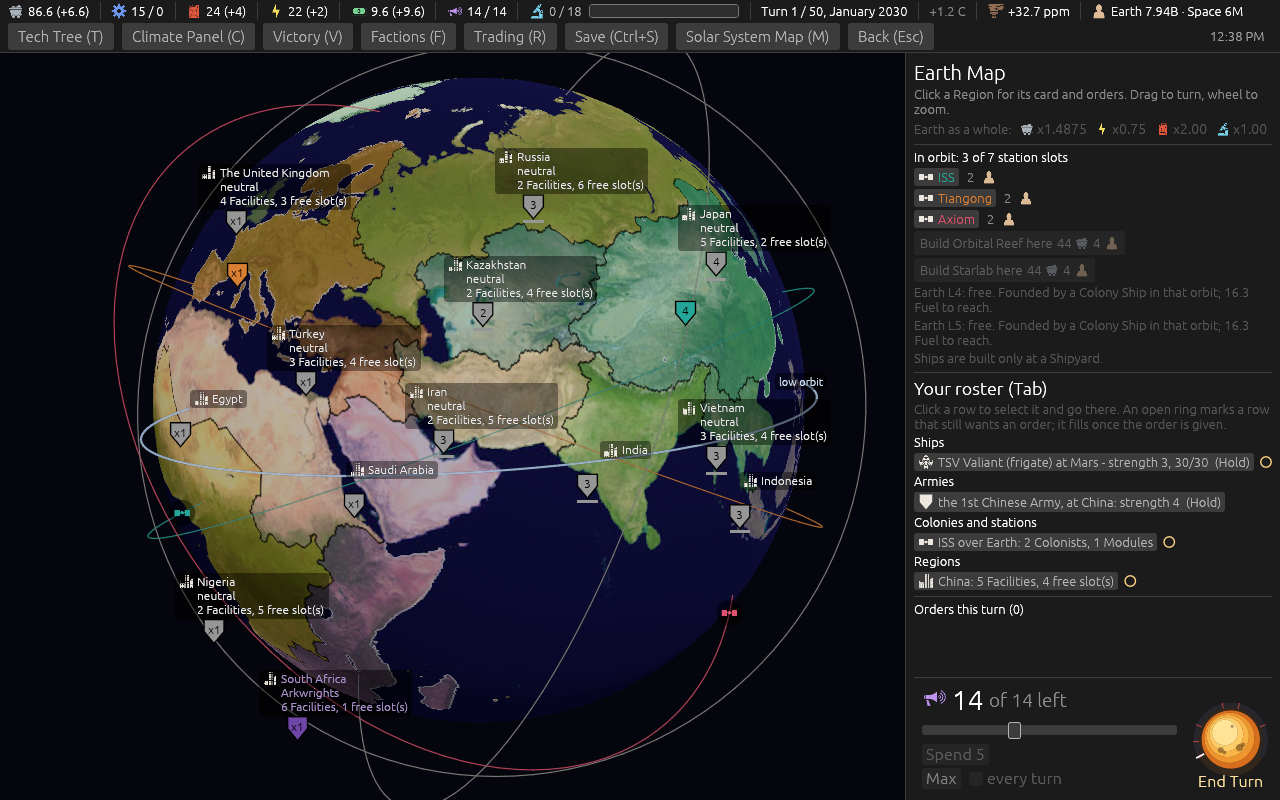
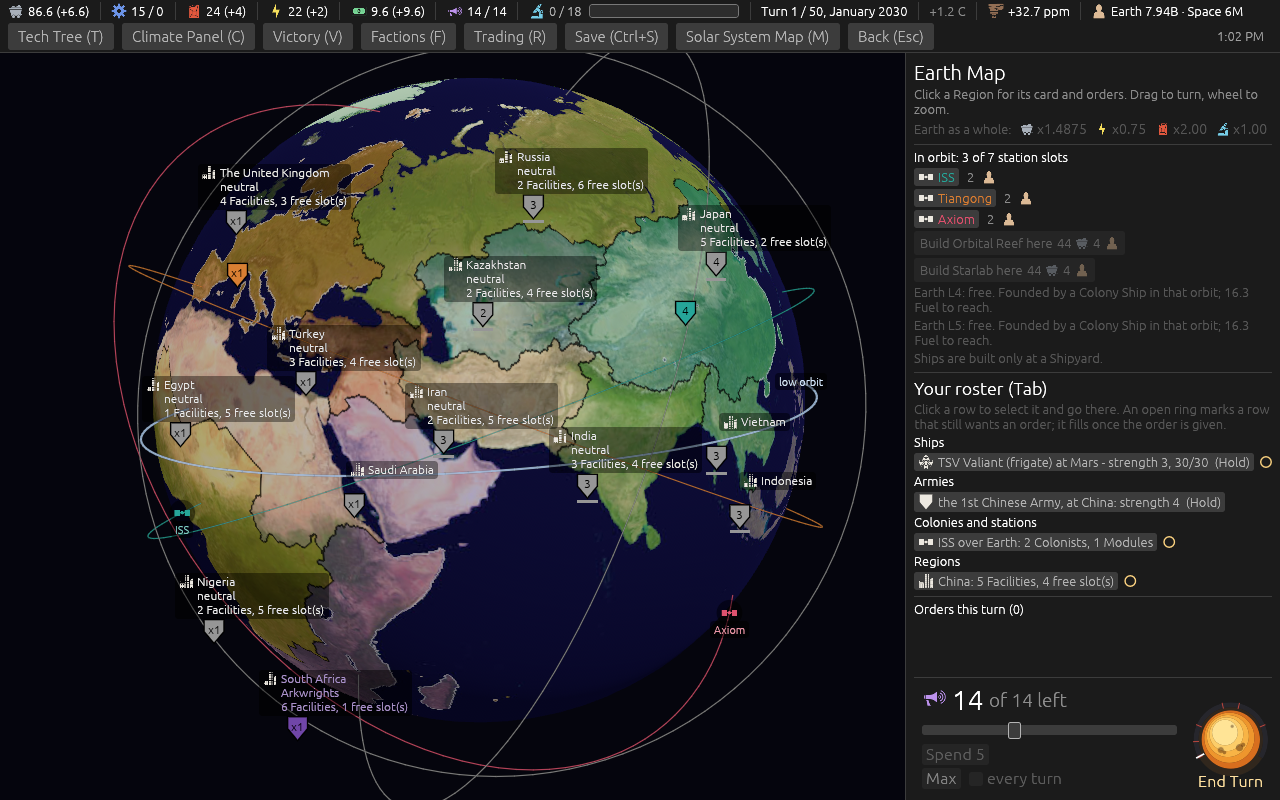
Map labels: fixes from the review of #548
A station's or stack's glyph is now its own label's mark, so the globe's
station names show again. The panels round the map and open windows are
hard marks: every label gives way to them, the selected included. The
pointer raises a label within 30 px, a Region's click circle. The 6 px
margin for growing back now holds for half a second after a label gives
way. Labels set flush by hand had stayed hidden for good without it.

diff --git a/src/labels.rs b/src/labels.rs
@@ -5,14 +5,20 @@
 //! marks. The selected label and the one under the pointer are laid over the marks rather than
 //! giving way to them, so pointing at a place always shows its name (the designer, 2026-10-19). This module decides the forms; `ui.rs` gathers the labels and paints them.
 //!
-//! Two dampers keep a turning view from flickering: a label that has given way grows back only when
-//! the larger form would clear everything by `MARGIN`, and a change of form fades over `FADE`.
+//! Two dampers keep a turning view from flickering: for `HOLD` after a label gives way it grows back
+//! only when the larger form would clear everything by `MARGIN`, and a change of form fades over
+//! `FADE`.
 
 use bevy_egui::egui::{Id, Rect};
 use std::collections::HashMap;
 
 /// The pixels a label that has given way must have to spare before it grows back.
 pub const MARGIN: f32 = 6.0;
+/// The seconds the margin holds after a label gives way. After that it grows back as soon as it
+/// fits: labels set flush by hand (the Solar System Map's stack rows, 16 pixels apart, and the
+/// Orbital Control flag under them) never have the margin, and one that hid for a frame stayed
+/// hidden for good until this bound was put on it (found in review).
+pub const HOLD: f64 = 0.5;
 /// The pixels two blocks may overlap and still count as clear: a block pads its text by two pixels
 /// a side, so two backgrounds that kiss leave both texts whole. Without it the Solar System Map's
 /// stack labels, set 16 pixels apart in blocks 19 tall, knocked each other out.
@@ -46,10 +52,13 @@ pub struct Candidate {
     pub dist: f32,
 }
 
-/// A fixed mark. `owner` is the label it is set beside, which does not give way to it.
+/// A fixed mark. `owner` is the label it is set beside, which does not give way to it. A `hard`
+/// mark -- an open window, the panels round the map -- is one every label gives way to, the
+/// selected and hovered included, since a label under it is not seen.
 pub struct Obstacle {
     pub rect: Rect,
     pub owner: Option<Id>,
+    pub hard: bool,
 }
 
 /// Overlap with area, past the slack each block is allowed. Two blocks that only touch along an
@@ -60,22 +69,23 @@ fn overlaps(a: Rect, b: Rect) -> bool {
 }
 
 /// The form each candidate takes, in the candidates' order. `prev` is the form a label held last
-/// frame, `None` for a label new to the view.
-pub fn give_way(cands: &[Candidate], fixed: &[Obstacle], prev: &dyn Fn(Id) -> Option<Form>) -> Vec<Form> {
+/// frame and the seconds it has held it, `None` for a label new to the view.
+pub fn give_way(cands: &[Candidate], fixed: &[Obstacle], prev: &dyn Fn(Id) -> Option<(Form, f64)>) -> Vec<Form> {
     let mut order: Vec<usize> = (0..cands.len()).collect();
     order.sort_by(|a, b| (cands[*a].tier, cands[*a].dist).partial_cmp(&(cands[*b].tier, cands[*b].dist)).unwrap_or(std::cmp::Ordering::Equal));
     let mut placed: Vec<Rect> = Vec::new();
     let mut forms = vec![Form::Hidden; cands.len()];
     for i in order {
         let c = &cands[i];
-        let was = prev(c.id).unwrap_or(Form::Full);
+        let (was, held) = prev(c.id).unwrap_or((Form::Full, 0.0));
+        let fresh = held < HOLD;
         let fits = |rect: Rect, growing: bool| {
             let rect = if growing { rect.expand(MARGIN) } else { rect };
-            !placed.iter().any(|p| overlaps(*p, rect)) && (c.tier <= HOVERED || !fixed.iter().any(|o| o.owner != Some(c.id) && overlaps(o.rect, rect)))
+            !placed.iter().any(|p| overlaps(*p, rect)) && !fixed.iter().any(|o| (o.hard || c.tier > HOVERED) && o.owner != Some(c.id) && overlaps(o.rect, rect))
         };
-        let form = if fits(c.full, was != Form::Full) {
+        let form = if fits(c.full, fresh && was != Form::Full) {
             Form::Full
-        } else if fits(c.short, was == Form::Hidden) {
+        } else if fits(c.short, fresh && was == Form::Hidden) {
             Form::Short
         } else {
             Form::Hidden
@@ -116,6 +126,11 @@ impl Memory {
         self.states.get(&id).map(|s| s.form)
     }
 
+    /// The form a label held last frame and the seconds it has held it.
+    pub fn held(&self, id: Id, now: f64) -> Option<(Form, f64)> {
+        self.states.get(&id).map(|s| (s.form, now - s.since))
+    }
+
     /// Records this frame's forms, starting a fade where one changed, and forgets every label not
     /// laid out this frame. A label new to the view fades in from nothing.
     pub fn settle(&mut self, laid: &[(Id, Form)], now: f64) -> Vec<State> {
@@ -150,7 +165,7 @@ mod tests {
         Candidate { id: Id::new(name), full: block(x, 0.0, 100.0, 40.0), short: block(x, 0.0, 40.0, 14.0), tier, dist }
     }
 
-    fn fresh(_: Id) -> Option<Form> {
+    fn fresh(_: Id) -> Option<(Form, f64)> {
         None
     }
 
@@ -181,19 +196,35 @@ mod tests {
 
     #[test]
     fn gives_way_to_a_fixed_mark_but_not_its_own() {
-        let mark = |owner: Option<&str>| Obstacle { rect: block(30.0, 15.0, 20.0, 24.0), owner: owner.map(Id::new) };
+        let mark = |owner: Option<&str>| Obstacle { rect: block(30.0, 15.0, 20.0, 24.0), owner: owner.map(Id::new), hard: false };
         assert_eq!(give_way(&[label("a", 0.0, OWN, 0.0)], &[mark(None)], &fresh), vec![Form::Short]);
         assert_eq!(give_way(&[label("a", 0.0, OWN, 0.0)], &[mark(Some("a"))], &fresh), vec![Form::Full]);
     }
 
     #[test]
     fn the_selected_and_hovered_are_laid_over_the_marks() {
-        let mark = Obstacle { rect: block(0.0, 0.0, 20.0, 24.0), owner: None };
+        let mark = Obstacle { rect: block(0.0, 0.0, 20.0, 24.0), owner: None, hard: false };
         assert_eq!(give_way(&[label("a", 0.0, RIVAL, 0.0)], std::slice::from_ref(&mark), &fresh), vec![Form::Hidden]);
         assert_eq!(give_way(&[label("a", 0.0, HOVERED, 0.0)], std::slice::from_ref(&mark), &fresh), vec![Form::Full]);
         assert_eq!(give_way(&[label("a", 0.0, SELECTED, 0.0)], std::slice::from_ref(&mark), &fresh), vec![Form::Full]);
         // They still give way to each other.
         assert_eq!(give_way(&[label("a", 0.0, SELECTED, 0.0), label("b", 10.0, HOVERED, 0.0)], &[mark], &fresh), vec![Form::Full, Form::Hidden]);
+    }
+
+    #[test]
+    fn every_label_gives_way_to_a_hard_mark() {
+        let window = Obstacle { rect: block(0.0, 0.0, 300.0, 300.0), owner: None, hard: true };
+        assert_eq!(give_way(&[label("a", 0.0, SELECTED, 0.0)], std::slice::from_ref(&window), &fresh), vec![Form::Hidden]);
+        assert_eq!(give_way(&[label("a", 0.0, HOVERED, 0.0)], &[window], &fresh), vec![Form::Hidden]);
+    }
+
+    #[test]
+    fn a_hidden_label_needs_the_margin_to_take_its_short_form() {
+        // b's short block (40 wide at 69) clears a's full one by three pixels, with the slack.
+        let cands = [label("a", 0.0, OWN, 0.0), label("b", 69.0, NEUTRAL, 0.0)];
+        let hidden = |id: Id| if id == Id::new("b") { Some((Form::Hidden, 0.1)) } else { Some((Form::Full, 9.0)) };
+        assert_eq!(give_way(&cands, &[], &hidden), vec![Form::Full, Form::Hidden]);
+        assert_eq!(give_way(&cands, &[], &fresh), vec![Form::Full, Form::Short]);
     }
 
     #[test]
@@ -212,9 +243,12 @@ mod tests {
     fn grows_back_only_with_the_margin_to_spare() {
         // 99 apart: the full blocks clear, with the slack, by three pixels, under the margin.
         let cands = [label("a", 0.0, OWN, 0.0), label("b", 99.0, NEUTRAL, 0.0)];
-        let shrunk = |id: Id| if id == Id::new("b") { Some(Form::Short) } else { Some(Form::Full) };
+        let shrunk = |id: Id| if id == Id::new("b") { Some((Form::Short, 0.1)) } else { Some((Form::Full, 9.0)) };
         assert_eq!(give_way(&cands, &[], &shrunk), vec![Form::Full, Form::Short]);
-        let full = |_: Id| Some(Form::Full);
+        // Held past HOLD, it grows back as soon as it fits.
+        let long_shrunk = |id: Id| if id == Id::new("b") { Some((Form::Short, 0.6)) } else { Some((Form::Full, 9.0)) };
+        assert_eq!(give_way(&cands, &[], &long_shrunk), vec![Form::Full, Form::Full]);
+        let full = |_: Id| Some((Form::Full, 9.0));
         assert_eq!(give_way(&cands, &[], &full), vec![Form::Full, Form::Full]);
         // Past the margin it grows back.
         let cands = [label("a", 0.0, OWN, 0.0), label("b", 103.0, NEUTRAL, 0.0)];

diff --git a/src/ui.rs b/src/ui.rs
@@ -974,8 +974,8 @@ fn on_map(colour: Color32) -> Color32 {
 }
 
 /// Ticket #335 (version 0.09.0): the block a map label fills, by the arithmetic the two painters
-/// below paint with, so a caller can see where a label would land before it is drawn. The orbit
-/// band measures itself with it and a Colony Slot label asks whether it would land in the band.
+/// below paint with, so a caller can see where a label would land before it is drawn. Since ticket
+/// #548 (version 0.1.0.2) the map labels' layout measures every block with it.
 fn label_block(painter: &egui::Painter, pos: Pos2, kind: Option<Kind>, text: &str, size: f32) -> egui::Rect {
     let galley = painter.layout_no_wrap(text.to_string(), FontId::proportional(size), Color32::WHITE);
     let wears_glyph = kind.and_then(Kind::icon).and_then(|name| Icons::texture_from_ctx(painter.ctx(), name)).is_some();
@@ -1083,7 +1083,7 @@ impl MapLabels {
 
     /// A fixed mark, set beside the label `owner` keys, which does not give way to it.
     fn fixed(&mut self, rect: egui::Rect, owner: Option<egui::Id>) {
-        self.fixed.push(labels::Obstacle { rect, owner });
+        self.fixed.push(labels::Obstacle { rect, owner, hard: false });
     }
 
     fn id(key: impl std::hash::Hash + std::fmt::Debug) -> egui::Id {
@@ -1094,11 +1094,20 @@ impl MapLabels {
     /// takes, fading from the form it held. `memory` keys what the layout remembers between frames.
     fn finish(mut self, painter: &egui::Painter, memory: &str) {
         let ctx = painter.ctx().clone();
-        // The open windows (the Climate Panel, the Tech Tree, a card) are fixed marks too: a label
-        // under one is not seen, so it must not push a seen one aside.
+        // The open windows (the Climate Panel, the Tech Tree, a card) and the panels round the map
+        // are hard marks: a label under one is not seen, so it must not push a seen one aside, and
+        // even the selected label gives way to them.
         let windows: Vec<egui::Rect> = ctx.memory(|m| m.areas().visible_layer_ids().into_iter().filter(|l| l.order == egui::Order::Middle).filter_map(|l| m.area_rect(l.id)).collect());
-        for rect in windows {
-            self.fixed(rect, None);
+        let clip = painter.clip_rect();
+        let far = 1.0e5;
+        let edges = [
+            egui::Rect::from_min_max(egui::pos2(-far, -far), egui::pos2(far, clip.min.y)),
+            egui::Rect::from_min_max(egui::pos2(-far, clip.max.y), egui::pos2(far, far)),
+            egui::Rect::from_min_max(egui::pos2(-far, -far), egui::pos2(clip.min.x, far)),
+            egui::Rect::from_min_max(egui::pos2(clip.max.x, -far), egui::pos2(far, far)),
+        ];
+        for rect in windows.into_iter().chain(edges) {
+            self.fixed.push(labels::Obstacle { rect, owner: None, hard: true });
         }
         let key = egui::Id::new(memory);
         let mut mem = ctx.data_mut(|d| d.get_temp::<labels::Memory>(key)).unwrap_or_default();
@@ -1116,13 +1125,14 @@ impl MapLabels {
                     Some(labels::Form::Hidden) => egui::Rect::NOTHING,
                     _ => full,
                 };
-                let hovered = pointer.is_some_and(|q| showing.contains(q) || (q - l.anchor).length() < 24.0);
+                // 30 pixels, a Region's click circle, so a place that takes the click shows its name.
+                let hovered = pointer.is_some_and(|q| showing.contains(q) || (q - l.anchor).length() < 30.0);
                 let tier = if hovered { l.tier.min(labels::HOVERED) } else { l.tier };
                 labels::Candidate { id: l.id, full, short, tier, dist: (l.anchor - centre).length() }
             })
             .collect();
-        let forms = labels::give_way(&cands, &self.fixed, &|id| mem.form(id));
         let now = ctx.input(|i| i.time);
+        let forms = labels::give_way(&cands, &self.fixed, &|id| mem.held(id, now));
         let laid: Vec<(egui::Id, labels::Form)> = self.labels.iter().zip(&forms).map(|(l, f)| (l.id, *f)).collect();
         let states = mem.settle(&laid, now);
         ctx.data_mut(|d| d.insert_temp(key, mem));
@@ -1428,7 +1438,7 @@ fn orbit_rings_on_globe(
         let a = start + clock * std::f32::consts::TAU / period;
         if let (Some(c), Some(p)) = (station, seen(a)) {
             glyph_at(painter, Kind::Station, p, 18.0, colour);
-            tags.fixed(disc(p, 13.0), None);
+            tags.fixed(disc(p, 13.0), Some(MapLabels::id(("ring station", c.id))));
             let at = p + egui::vec2(0.0, 17.0);
             let name = game.station_name(body, c.slot);
             let tier = owner_tier(c.control.director(), tags.selection == Selection::Colony(c.id));
@@ -1459,7 +1469,7 @@ fn orbit_rings_on_globe(
                 continue;
             };
             glyph_at(painter, Kind::of_ships(here.iter().copied()), p, 16.0, seat_colour(session, seat));
-            tags.fixed(disc(p, 12.0), None);
+            tags.fixed(disc(p, 12.0), Some(MapLabels::id(("ring stack", body, orbit.slot(), seat))));
             let at = p + egui::vec2(0.0, 15.0);
             let tier = owner_tier(Some(seat), tags.selection == Selection::ShipStack(body, seat));
             let full = format!("{} x{}", game.seat_name(seat), here.len());
@@ -3466,14 +3476,15 @@ fn overlays(painter: &egui::Painter, session: &Session, game: &Game, view: &View
                                     painter.circle_stroke(q, 5.0, egui::Stroke::new(1.5, on_map(colour)));
                                 }
                             }
-                            tags.fixed(disc(q, 10.0), None);
+                            let far_tag = MapLabels::id(("far station", body, slot));
+                            tags.fixed(disc(q, 10.0), Some(far_tag));
                             let at = q + egui::vec2(0.0, 15.0);
                             let name = game.station_name(body, slot);
                             let tier = owner_tier(station.and_then(|c| c.control.director()), station.is_some_and(|c| selected == Selection::Colony(c.id)));
                             tags.push(("far station", body, slot), tier, at, vec![Piece::text(at, None, name.clone(), colour, 11.0)], Piece::text(at, None, name, colour, 11.0));
                             if let Some(s) = warship_in_slot(game, body, slot) {
                                 glyph_at(painter, Kind::Warship, q + egui::vec2(12.0, 0.0), 12.0, seat_colour(session, s.seat));
-                                tags.fixed(disc(q + egui::vec2(12.0, 0.0), 9.0), None);
+                                tags.fixed(disc(q + egui::vec2(12.0, 0.0), 9.0), Some(far_tag));
                             }
                         }
                         for slot in 0..near {
@@ -3692,8 +3703,7 @@ fn overlays(painter: &egui::Painter, session: &Session, game: &Game, view: &View
                             hotspots.push(Hotspot { pos: centre, radius: 12.0, hit: if own { Hit::Shield(sid) } else { Hit::Select(Selection::State(sid)) } });
                         }
                     }
-                    // Ticket #44: Antarctica's Colony Slots. Earth's globe carries no orbit band,
-                    // so nothing here has a rectangle to keep clear of (ticket #335).
+                    // Ticket #44: Antarctica's Colony Slots. Earth's globe carries no orbit band.
                     slot_labels(painter, session, game, body, &visible, hotspots, &mut tags);
                 }
                 _ => {

diff --git a/docs/dev-diary/2026-10-19-version-0.1.0.2/README.md b/docs/dev-diary/2026-10-19-version-0.1.0.2/README.md
@@ -13,8 +13,8 @@ Ticket [#548](https://github.com/whaleyjoshua2/Dying-Earth/issues/548), spec §1
 **The pictures** ([`ticket-548/`](ticket-548/)), taken headlessly in `shot:` mode, seed 3, turn 1:
 - `before-earth.png`, `after-earth.png` (`panel:0 look:50,32`): before, Turkey, Iran and Saudi
   Arabia ran together, the United Kingdom lay over the European Union, and China over Japan. After,
-  Egypt, Saudi Arabia, India and Indonesia stand as their glyph and name; the European Union and
-  China hide, each under a neighbour's Army shield.
+  Saudi Arabia, Vietnam and Indonesia stand as their glyph and name; the European Union and China
+  hide, each under a neighbour's Army shield; the ISS and Axiom keep their names.
 - `china-selected-earth.png` (`look:80,35 select:eastasia`): China selected, its full block laid
   over Japan's shield. This is the case that put a question back to the designer (below).
 - `before-solar.png`, `after-solar.png`: before, Mars's label lay across Ceres's, and the Earth L5
@@ -33,9 +33,26 @@ Ticket [#548](https://github.com/whaleyjoshua2/Dying-Earth/issues/548), spec §1
 - Open windows (the Climate Panel, a card) are fixed marks too, so a label under one, which is not
   seen, does not push a seen one aside.
 
-**The tests.** `src/labels.rs` holds the layout, apart from the painting, with nine tests: rank
+**The review** (an agent that did not build it) found two defects and three gaps, all fixed:
+- A station's or stack's name gave way to its own glyph, so the ISS and Axiom vanished from the
+  globe, and a far orbit's name could stick hidden. Each glyph is now its label's own mark.
+- Labels under the side panel or the top bar still claimed room; and the selected label, laid over
+  marks, also ignored open windows. The panels and windows are now hard marks every label gives way
+  to.
+- The pointer raised a label within 24 pixels of its place, a Region's click within 30. Now 30.
+
+Its retake found a third defect: the six-pixel margin for growing back was measured against labels
+set flush by hand, so the Solar System Map's stack rows, once hidden for a frame, stayed hidden for
+good. The margin now holds for half a second after a label gives way. With it, Egypt and India,
+held short by the same fault, stand whole.
+
+**Left as it is**: the Solar System Map's Battle mark is set from the width of the Body's full
+label, so beside a label shrunk to its name it stands off to the left.
+
+**The tests.** `src/labels.rs` holds the layout, apart from the painting, with eleven tests: rank
 order, nearness to the middle within a rank, shrink then hide, a mark's owner exempt, the slack,
-the margin before growing back, the selected and hovered over marks, and the fade's memory. Each
-rule was broken on purpose and its test watched to fail before it was believed.
+the margin and its half-second hold, the margin from hidden to short, the selected and hovered over
+marks, the hard marks, and the fade's memory. Each rule was broken on purpose and its test watched
+to fail before it was believed.
 
 No rule moves, so no sweep.

diff --git a/docs/spec/version-0.1.0.2.md b/docs/spec/version-0.1.0.2.md
@@ -37,16 +37,24 @@ Ticket: [Map labels give way instead of overlapping, at every view angle](https:
   whoever directs it: a Region's, a Colony's or a station's director, a Ship's or a stack's seat; a
   Body on the Solar System Map is the player's own when the player has a Colony or station there,
   a rival's when only rivals have, and neutral otherwise.
-- **No flicker.** A label that changes form fades into the new one over a fifth of a second. A label
-  that has given way grows back only when the larger form would clear everything by a margin of six
-  pixels; a label already in its form keeps it while it merely touches nothing.
+- **No flicker.** A label that changes form fades into the new one over a fifth of a second, and a
+  label coming into view fades in. For half a second after a label gives way it grows back only
+  when the larger form would clear everything by a margin of six pixels; after that it grows back
+  as soon as it fits. (Found in review: without the half-second bound, labels set flush by hand --
+  the Solar System Map's stack rows and the Orbital Control flag under them -- never had the margin,
+  and one that hid for a frame stayed hidden.)
 - **Fixed marks never give way, and labels give way to them**: Army shields, Battle marks, station
   and warship glyphs, the Orbital Control flag, the launch window line, a Body map's orbit band and
-  the panels. A label does not give way to its own place's marks (a Region's shields, a slot's
-  Battle mark), which are set beside it. **The selected label and the one under the pointer are laid
-  over the marks** instead of giving way to them, so pointing at a place always shows its name. They
-  still give way to each other. (Found in building: a neighbour's shield hid China, the player's own
-  Region, even when selected; the designer chose this answer.)
+  the panels round the map and any open window. A label does not give way to its own place's marks
+  (a Region's shields, a slot's Battle mark, a station's or stack's glyph), which are set beside
+  it. **The selected label and the one under the pointer are laid over the marks** instead of
+  giving way to them, so pointing at a place always shows its name. They still give way to each
+  other. (Found in building: a neighbour's shield hid China, the player's own
+  Region, even when selected; the designer chose this answer.) The panels and open windows are the
+  exception: every label gives way to them, the selected included, since a label under one is not
+  seen.
+- **The pointer raises a label** when it is within 30 pixels of the place, a Region's click circle,
+  or over the block the label is showing.
 - **Two blocks may overlap by two pixels a side** and still count as clear, since a block pads its
   text by two pixels: kissing backgrounds leave both texts whole.
 - **A click stays at the place**, whatever its label is doing: a Region, a slot, a station or a
